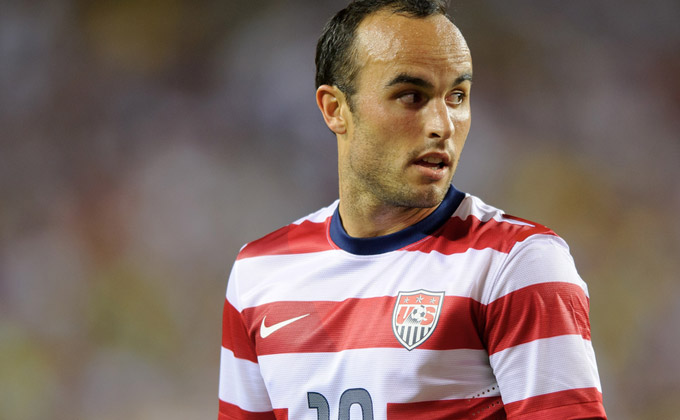
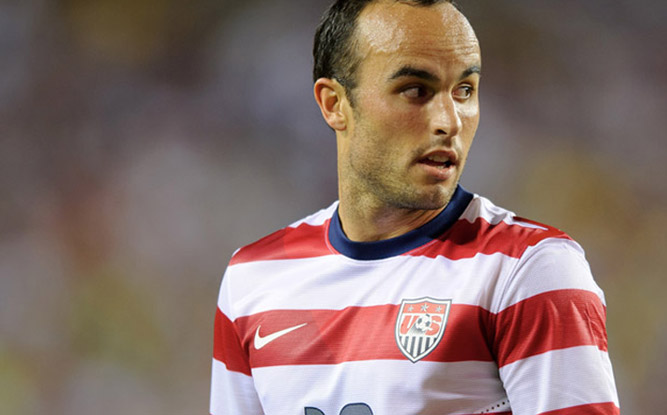
Align image sizes (20px) in hero

diff --git a/css/style.css b/css/style.css
@@ -83,9 +83,12 @@ Version:	1.0.0
 }
 #hero .row #right-feature {
   padding-right: 0;
+  padding-left: 20px;
 }
 #hero .row #right-feature img {
   float: right;
+}
+#hero .row #right-feature img:first-child {
   margin-bottom: 20px;
 }
 /* 4. Layout -------------------------------------------------------*/

diff --git a/less/hero.less b/less/hero.less
@@ -24,9 +24,12 @@ Version:	1.0.0
 		}
 		#right-feature {
 			padding-right: 0;
+			padding-left: 20px;
 			img {
 				float: right;
+				&:first-child {
 				margin-bottom: 20px;
+				}
 			}
 		}
 	}
